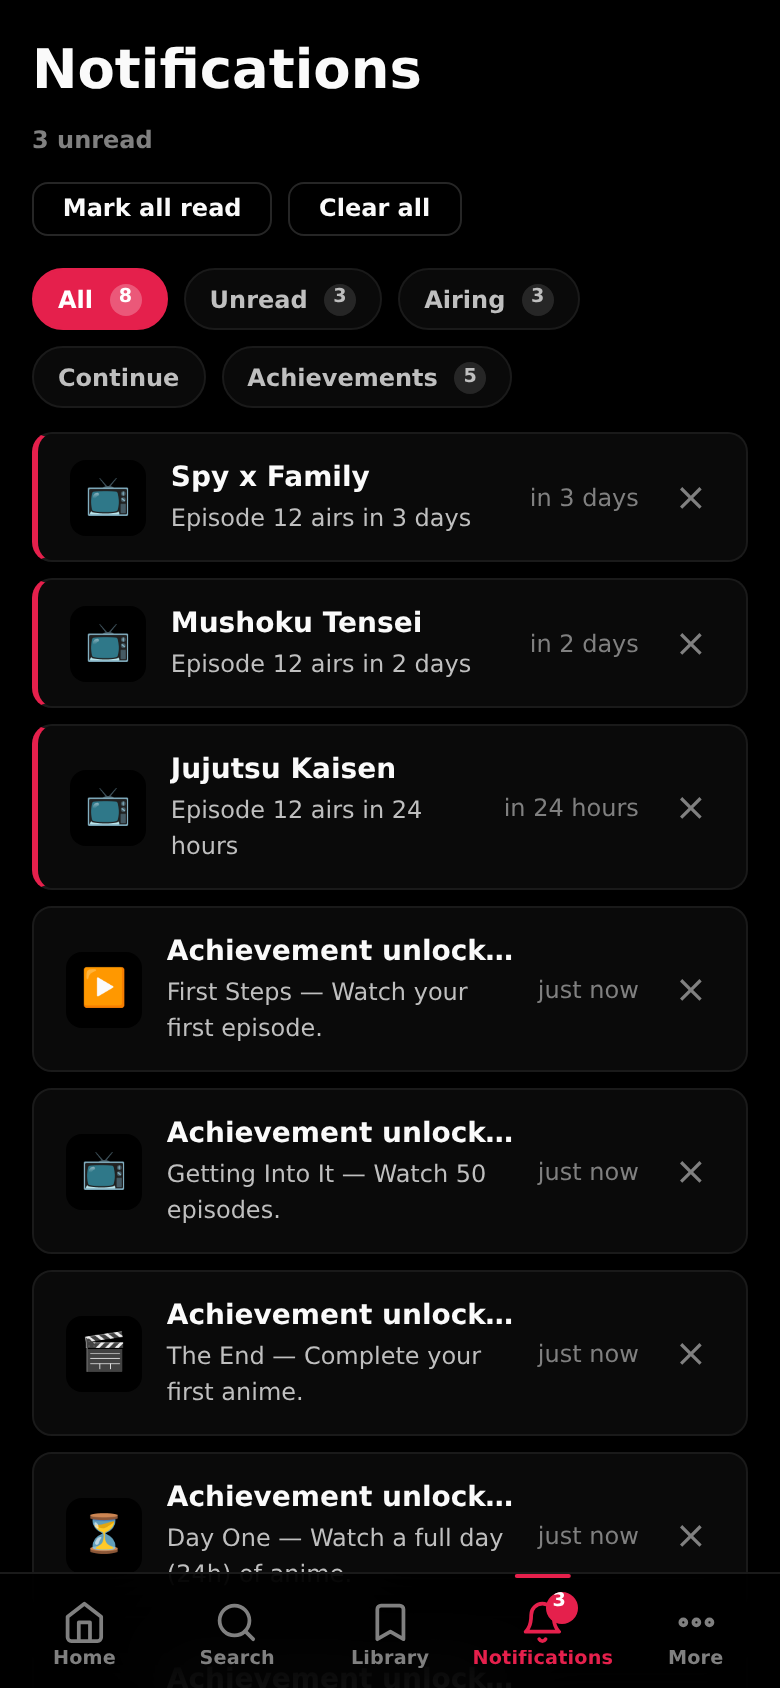
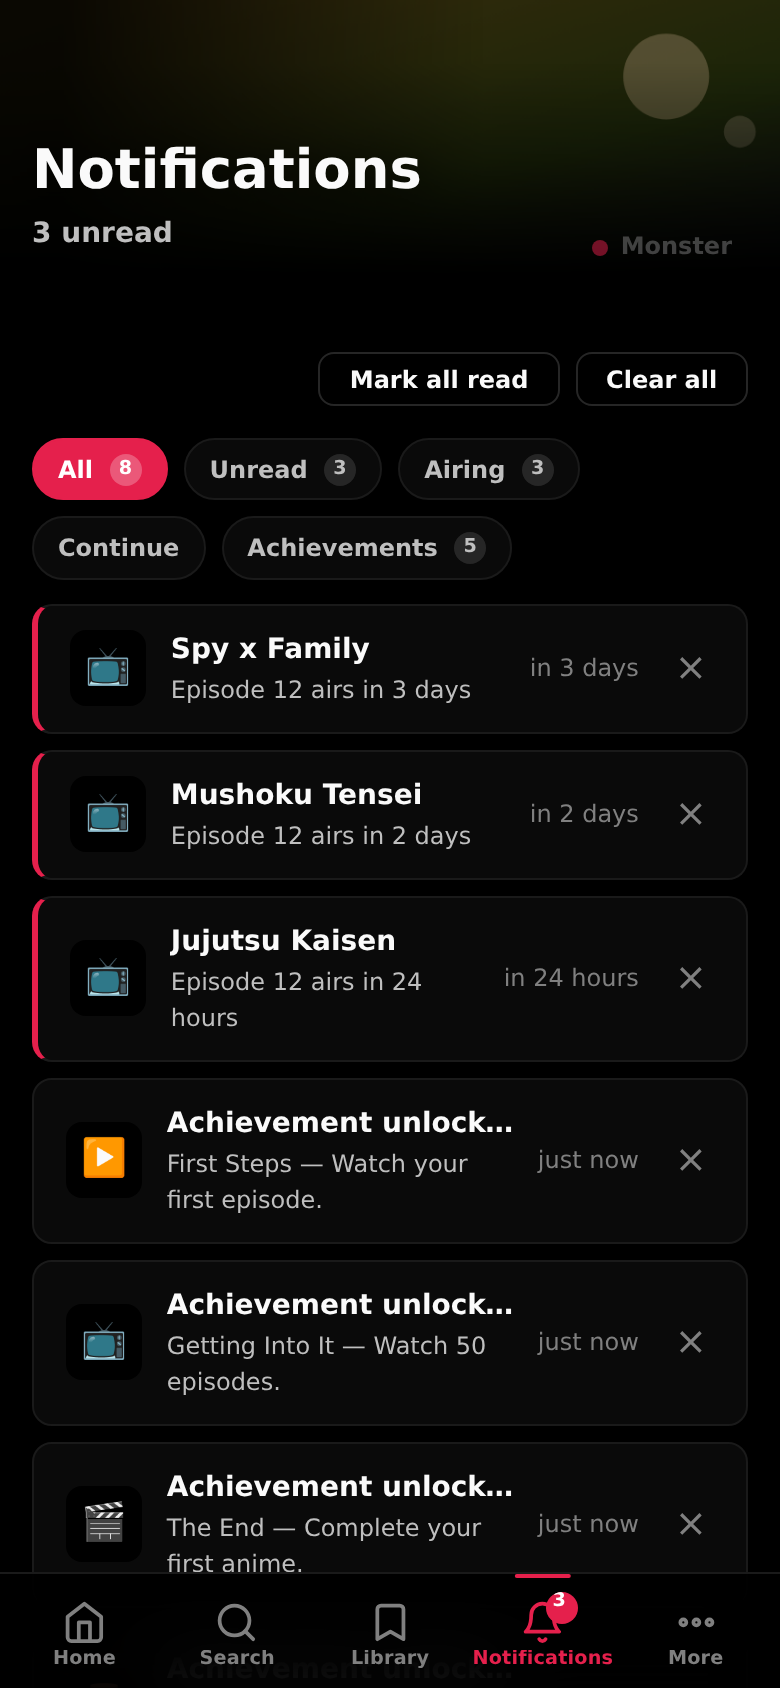
Add random-anime spotlight headers and polish cards
- New C.spotlight() header: a full-bleed banner pulled from a random popular
  anime (AniList — the catalogue DB stores metadata only, no banner art),
  with the page title/subtitle over a gradient scrim and the chosen title
  credited faintly in the bottom-right corner. Applied to the Dashboard,
  Analytics, Achievements, Notifications, Watch History and Library pages,
  which previously had bare text headers.
- Cards gain a play affordance that fades in on hover.

Regenerate the full desktop + mobile screenshot gallery.

diff --git a/web/css/style.css b/web/css/style.css
@@ -293,6 +293,27 @@ img { max-width: 100%; display: block; }
 }
 .card-progress > div { height: 100%; background: var(--accent); }
 
+.card-cover .card-play {
+  position: absolute; inset: 0;
+  display: grid; place-items: center;
+  background: color-mix(in oklab, var(--bg-sunken) 35%, transparent);
+  opacity: 0;
+  transition: opacity var(--dur-base) var(--ease-out);
+}
+.card:hover .card-play { opacity: 1; }
+.card-play svg {
+  width: 1.15rem; height: 1.15rem;
+  fill: #fff; stroke: none;
+  padding: .6rem;
+  box-sizing: content-box;
+  border-radius: var(--radius-full);
+  background: color-mix(in oklab, var(--accent) 92%, transparent);
+  box-shadow: var(--shadow-2);
+  transform: scale(.8);
+  transition: transform var(--dur-base) var(--ease-spring);
+}
+.card:hover .card-play svg { transform: scale(1); }
+
 .card-title {
   font-size: var(--text-sm);
   font-weight: var(--weight-bold);
@@ -308,6 +329,78 @@ img { max-width: 100%; display: block; }
   color: var(--fg-faint);
   font-weight: var(--weight-medium);
   margin-top: .1rem;
+}
+
+/* ===== spotlight header (random-anime banner) ===== */
+
+.spotlight {
+  position: relative;
+  min-height: 12rem;
+  display: flex;
+  align-items: flex-end;
+  padding: var(--space-6) var(--space-6) var(--space-5);
+  margin-bottom: var(--space-4);
+  overflow: clip;
+  isolation: isolate;
+}
+.spotlight-bg {
+  position: absolute; inset: 0;
+  z-index: -2;
+  background-size: cover;
+  background-position: center 28%;
+  opacity: 0;
+  transform: scale(1.06);
+  transition: opacity .9s var(--ease-out), transform 12s linear;
+}
+.spotlight-bg.loaded { opacity: .5; transform: scale(1.12); }
+.spotlight-scrim {
+  position: absolute; inset: 0;
+  z-index: -1;
+  background:
+    linear-gradient(to top, var(--bg) 3%, color-mix(in oklab, var(--bg) 35%, transparent) 45%, transparent 78%),
+    linear-gradient(to right, color-mix(in oklab, var(--bg) 82%, transparent) 8%, transparent 62%);
+}
+.spotlight-inner { position: relative; max-width: 46rem; }
+.spotlight-title {
+  font-size: var(--text-3xl);
+  font-weight: var(--weight-black);
+  line-height: 1.04;
+  margin: 0;
+  text-shadow: 0 2px 20px color-mix(in oklab, var(--bg-sunken) 70%, transparent);
+}
+.spotlight-sub {
+  color: var(--fg-muted);
+  font-weight: var(--weight-bold);
+  font-size: var(--text-sm);
+  margin: .4rem 0 0;
+}
+.spotlight-credit {
+  position: absolute;
+  right: var(--space-5); bottom: var(--space-3);
+  max-width: 50%;
+  font-size: var(--text-xs);
+  font-weight: var(--weight-bold);
+  color: var(--fg-faint);
+  opacity: .5;
+  text-align: right;
+  white-space: nowrap; overflow: hidden; text-overflow: ellipsis;
+  transition: opacity var(--dur-fast) var(--ease-out), color var(--dur-fast);
+}
+.spotlight-credit::before {
+  content: '';
+  display: inline-block;
+  width: .5rem; height: .5rem;
+  margin-right: .4rem;
+  border-radius: var(--radius-full);
+  background: var(--accent);
+  vertical-align: middle;
+}
+.spotlight-credit:hover { opacity: .95; color: var(--fg-muted); }
+
+@media (max-width: 720px) {
+  .spotlight { min-height: 9rem; padding: var(--space-5) var(--space-4) var(--space-4); }
+  .spotlight-title { font-size: var(--text-2xl); }
+  .spotlight-credit { max-width: 60%; }
 }
 
 /* skeleton */

diff --git a/web/js/pages/notifications.js b/web/js/pages/notifications.js
@@ -13,31 +13,27 @@ const PageNotifications = {
   ],
 
   render (root, params) {
-    const pad = U.el('div', { class: 'page-pad' })
-    root.append(pad)
-
     const active = params.get('filter') ?? 'all'
     const all = Store.syncNotifications()
     const unread = all.filter(n => !n.read).length
 
-    // ---- header ----
-    pad.append(U.el('div', { class: 'analytics-head' }, [
-      U.el('div', {}, [
-        U.el('h1', { class: 'page-title', style: 'margin:0;', text: 'Notifications' }),
-        U.el('p', { class: 'list-row-sub', style: 'margin:.25rem 0 0;', text: unread ? `${unread} unread` : 'All caught up' })
-      ]),
-      U.el('div', { style: 'display:flex;gap:.5rem;' }, [
-        U.el('button', {
-          class: 'btn btn-ghost btn-sm',
-          disabled: unread ? null : '',
-          onclick: () => { Store.markAllNotificationsRead(); window.App.navigate(); window.App.refreshNotifBadge?.() }
-        }, [document.createTextNode('Mark all read')]),
-        U.el('button', {
-          class: 'btn btn-ghost btn-sm',
-          disabled: all.length ? null : '',
-          onclick: () => { if (window.confirm('Clear all notifications?')) { Store.clearNotifications(); window.App.navigate(); window.App.refreshNotifBadge?.() } }
-        }, [document.createTextNode('Clear all')])
-      ])
+    root.append(window.C.spotlight('Notifications', { subtitle: unread ? `${unread} unread` : 'All caught up' }))
+
+    const pad = U.el('div', { class: 'page-pad' })
+    root.append(pad)
+
+    // ---- toolbar ----
+    pad.append(U.el('div', { style: 'display:flex;gap:.5rem;justify-content:flex-end;margin-bottom:.5rem;' }, [
+      U.el('button', {
+        class: 'btn btn-ghost btn-sm',
+        disabled: unread ? null : '',
+        onclick: () => { Store.markAllNotificationsRead(); window.App.navigate(); window.App.refreshNotifBadge?.() }
+      }, [document.createTextNode('Mark all read')]),
+      U.el('button', {
+        class: 'btn btn-ghost btn-sm',
+        disabled: all.length ? null : '',
+        onclick: () => { if (window.confirm('Clear all notifications?')) { Store.clearNotifications(); window.App.navigate(); window.App.refreshNotifBadge?.() } }
+      }, [document.createTextNode('Clear all')])
     ]))
 
     // ---- filter tabs ----

diff --git a/web/js/components.js b/web/js/components.js
@@ -31,6 +31,9 @@ const C = {
       ]))
     }
 
+    // play affordance revealed on hover
+    cover.append(U.el('div', { class: 'card-play' }, [U.svg(this.PLAY, 18)]))
+
     const sub = subline ?? [U.format(media), U.seasonYear(media), media.episodes ? `${media.episodes} ep` : null].filter(Boolean).join(' • ')
 
     const card = U.el('a', { class: 'card', href: `#/anime/${media.id}` }, [
@@ -40,6 +43,47 @@ const C = {
     ])
     this._attachPreview(card, media)
     return card
+  },
+
+  // ---- spotlight header: a full-bleed banner from a random popular anime ----
+  // The Yume catalogue DB stores metadata only, so banner artwork comes from
+  // the same AniList source the rest of the app already uses. The chosen title
+  // is credited, faintly, in the bottom-right corner.
+  _spotlightPool: null,
+
+  _spotlightPick () {
+    if (!this._spotlightPool) {
+      this._spotlightPool = (async () => {
+        try {
+          const page = await window.API.search({ sort: ['POPULARITY_DESC'], perPage: 50 })
+          return (page.media ?? []).filter(m => m.bannerImage)
+        } catch (e) { return [] }
+      })()
+    }
+    return this._spotlightPool.then(pool => pool.length ? pool[Math.floor(Math.random() * pool.length)] : null)
+  },
+
+  spotlight (title, { subtitle = null, actions = null } = {}) {
+    const bg = U.el('div', { class: 'spotlight-bg' })
+    const credit = U.el('a', { class: 'spotlight-credit hidden' })
+    const inner = U.el('div', { class: 'spotlight-inner' }, [
+      U.el('h1', { class: 'spotlight-title', text: title }),
+      subtitle ? U.el('p', { class: 'spotlight-sub', text: subtitle }) : null,
+      actions ?? null
+    ])
+    const header = U.el('div', { class: 'spotlight' }, [bg, U.el('div', { class: 'spotlight-scrim' }), inner, credit])
+
+    this._spotlightPick().then(m => {
+      if (!m) return
+      const url = m.bannerImage || U.cover(m)
+      if (!url) return
+      bg.style.backgroundImage = `url("${url}")`
+      requestAnimationFrame(() => bg.classList.add('loaded'))
+      credit.href = `#/anime/${m.id}`
+      credit.textContent = U.title(m)
+      credit.classList.remove('hidden')
+    })
+    return header
   },
 
   // ---- hover preview (like the original app's preview cards) ----

diff --git a/web/js/pages/dashboard.js b/web/js/pages/dashboard.js
@@ -16,24 +16,20 @@ const PageDashboard = {
   ],
 
   render (root, params) {
-    const pad = U.el('div', { class: 'page-pad' })
-    root.append(pad)
-
     const editing = params.get('edit') === '1'
     const profile = Store.activeProfile()
     const layout = this._layout()
 
-    // ---- header ----
-    pad.append(U.el('div', { class: 'analytics-head' }, [
-      U.el('div', {}, [
-        U.el('h1', { class: 'page-title', style: 'margin:0;', text: `${this._greeting()}, ${profile?.name ?? 'Dreamer'}` }),
-        U.el('p', { class: 'list-row-sub', style: 'margin:.25rem 0 0;', text: 'Your dashboard' })
-      ]),
-      U.el('a', {
-        class: 'btn btn-ghost btn-sm',
+    root.append(window.C.spotlight(`${this._greeting()}, ${profile?.name ?? 'Dreamer'}`, {
+      subtitle: 'Your dashboard',
+      actions: U.el('a', {
+        class: 'btn btn-secondary btn-sm', style: 'margin-top:.8rem;',
         href: editing ? '#/dashboard' : '#/dashboard?edit=1'
-      }, [document.createTextNode(editing ? 'Done' : '⚙ Edit layout')])
-    ]))
+      }, [document.createTextNode(editing ? '✓ Done' : '⚙ Edit layout')])
+    }))
+
+    const pad = U.el('div', { class: 'page-pad' })
+    root.append(pad)
 
     if (editing) {
       pad.append(this._editor(layout))

diff --git a/web/js/pages/history.js b/web/js/pages/history.js
@@ -4,12 +4,13 @@
 
 const PageHistory = {
   render (root) {
+    const profile = Store.activeProfile()
+    root.append(window.C.spotlight('Watch History', { subtitle: profile ? `${profile.avatar ?? ''} ${profile.name}` : null }))
+
     const pad = U.el('div', { class: 'page-pad' })
     root.append(pad)
 
-    const profile = Store.activeProfile()
-    pad.append(U.el('div', { style: 'display:flex;align-items:center;justify-content:space-between;flex-wrap:wrap;gap:1rem;' }, [
-      U.el('h1', { class: 'page-title', style: 'margin:0;', text: 'Watch History' }),
+    pad.append(U.el('div', { style: 'display:flex;justify-content:flex-end;margin-bottom:.5rem;' }, [
       U.el('button', {
         class: 'btn btn-ghost btn-sm',
         onclick: () => {
@@ -20,7 +21,6 @@ const PageHistory = {
         }
       }, [document.createTextNode('Clear history')])
     ]))
-    if (profile) pad.append(U.el('p', { class: 'list-row-sub', style: 'margin-top:-.5rem;', text: `Profile: ${profile.avatar ?? ''} ${profile.name}` }))
 
     const history = Store.history()
     if (!history.length) {

diff --git a/web/js/pages/analytics.js b/web/js/pages/analytics.js
@@ -8,16 +8,11 @@ const PageAnalytics = {
   PALETTE: ['#f43f6e', '#ff8fab', '#a78bfa', '#38bdf8', '#34d399', '#fbbf24', '#fb923c', '#f87171', '#818cf8', '#2dd4bf', '#e879f9', '#94a3b8'],
 
   render (root) {
+    const profile = Store.activeProfile()
+    root.append(C.spotlight('Analytics', { subtitle: profile ? `${profile.avatar ?? ''} ${profile.name} · your viewing at a glance` : 'Your viewing at a glance' }))
+
     const pad = U.el('div', { class: 'page-pad' })
     root.append(pad)
-
-    const profile = Store.activeProfile()
-    pad.append(U.el('div', { class: 'analytics-head' }, [
-      U.el('div', {}, [
-        U.el('h1', { class: 'page-title', style: 'margin:0;', text: 'Analytics' }),
-        profile ? U.el('p', { class: 'list-row-sub', style: 'margin:.25rem 0 0;', text: `${profile.avatar ?? ''} ${profile.name} · your viewing at a glance` }) : null
-      ])
-    ]))
 
     const entries = Object.values(Store.list())
     const history = Store.history()

diff --git a/web/js/pages/achievements.js b/web/js/pages/achievements.js
@@ -27,14 +27,13 @@ const PageAchievements = {
   ],
 
   render (root) {
-    const pad = U.el('div', { class: 'page-pad' })
-    root.append(pad)
-
     const ctx = this._context()
     const profile = Store.activeProfile()
 
-    pad.append(U.el('h1', { class: 'page-title', style: 'margin-bottom:.25rem;', text: 'Achievements' }))
-    if (profile) pad.append(U.el('p', { class: 'list-row-sub', text: `${profile.avatar ?? ''} ${profile.name}` }))
+    window.C.spotlight && root.append(window.C.spotlight('Achievements', { subtitle: profile ? `${profile.avatar ?? ''} ${profile.name}` : null }))
+
+    const pad = U.el('div', { class: 'page-pad' })
+    root.append(pad)
 
     const evaluated = this.CATALOG.map(a => {
       const value = Math.max(0, Math.floor(a.value(ctx)))

diff --git a/web/js/pages/list.js b/web/js/pages/list.js
@@ -4,10 +4,11 @@
 
 const PageList = {
   render (root, params) {
+    const total = Object.keys(Store.list()).length
+    root.append(C.spotlight('Library', { subtitle: total ? `${total} ${total === 1 ? 'title' : 'titles'} tracked` : 'Your anime, tracked' }))
+
     const pad = U.el('div', { class: 'page-pad' })
     root.append(pad)
-
-    pad.append(U.el('h1', { class: 'page-title', text: 'Library' }))
 
     const state = { tab: params.get('tab') ?? 'CURRENT' }
 
